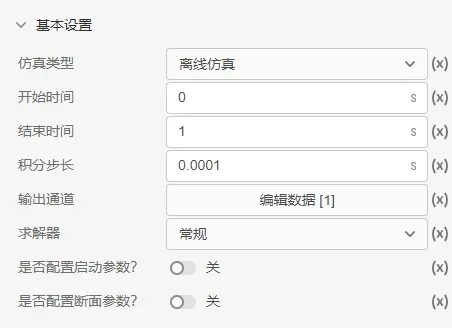
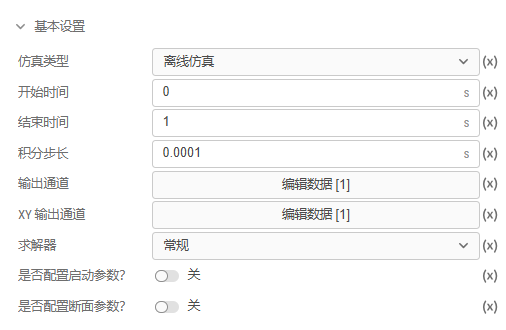
docs: 与XY输出通道、辅助图形相关文档更改
Former-commit-id: a6c75284c5951fdb9e11439a2dbd19cfa86b53f9

diff --git a/docs/documents/software/20-emtlab/110-component-library/10-basic/40-output/10-output/20-XYChannel/index.md b/docs/documents/software/20-emtlab/110-component-library/10-basic/40-output/10-output/20-XYChannel/index.md
@@ -26,13 +26,32 @@ import Pins from './_pins.md'
 <Pins/>
 
 ### 使用说明
-**X-Y输出通道**的X轴支持任意数据，通常用于显示XY图，而[常规输出通道](../10-_newChannel/index.md)X轴默认只支持时间。
+**X-Y输出通道**的X轴、Y轴数据可由用户自定义，通常用于显示XY图，而[常规输出通道](../10-_newChannel/index.md)X轴默认只支持时间。
 
 
 ## 案例
-例如绘制距离保护元件的测量阻抗轨迹。用户首先利用[多路信号分离元件](docs/documents/software/20-emtlab/110-component-library/10-basic/20-control/10-control-basic/10-_ChannelDeMerge/index.md)将测量阻抗 `Za0_Ⅰ`分解为二维信号，再将每一维度信号输入到X-Y输出通道中并设置好通道名称，最后在**计算方案**中选择**XY输出通道进行配置**。
+例如绘制距离保护元件的测量阻抗轨迹。用户首先利用[多路信号分离元件](docs/documents/software/20-emtlab/110-component-library/10-basic/20-control/10-control-basic/10-_ChannelDeMerge/index.md)将测量阻抗信号 `Za0_Ⅰ`分解为二维信号，再将每一维度信号输入到X-Y输出通道中并设置好通道名称为Za0_Ⅰ，最后在**计算方案**中选择**XY输出通道进行配置**。
 
 ![X-Y输出通道元件使用案例](./_xychannel.png)
+
+### 配置X-Y输出通道
+XY输出通道配置与[常规输出通道](../10-_newChannel/index.md)一致，区别在于多了[辅助图形](docs/documents/software/20-emtlab/110-component-library/10-basic/40-output/20-scope-shapes/index.md)的选择以及可视化范围的设置，方便用户自定义显示范围。
+
+![XY输出通道配置](./_config.png)
+
+
+XY输出通道的相关设置参数说明如下表。
+
+| 名称 | 说明 |
+| :--- | :--- | 
+| 示波器分组名称 | 代表了示波器窗口的名称；在结果页面，该名称在示波器窗口的图表标题进行显示 |
+| 采样频率 [Hz] | 示波器的采样频率，采样频率越高，单位时间的采样点越多；采样频率最大不超过 1 / 仿真积分步长 |
+| 示波器输出通道 | 示波器输出通道选择，可选择用户在仿真中添加的X-Y输出通道 |
+| 辅助图形 | 在示波器X-Y输出通道中，可选择[辅助图形](docs/documents/software/20-emtlab/110-component-library/10-basic/40-output/20-scope-shapes/index.md)进行显示。 |
+| X Min(绘图范围) | 示波器窗口的X轴显示最小范围 |
+| X Max(绘图范围) | 示波器窗口的X轴显示最大范围 |
+| Y Min(绘图范围) | 示波器窗口的Y轴显示最小范围 |
+| X Max(绘图范围) | 示波器窗口的Y轴显示最大范围 |
 
 :::warning
 XY输出通道的信号只能在计算方案中的XY输出通道中配置，不可与常规输出通道混淆。
